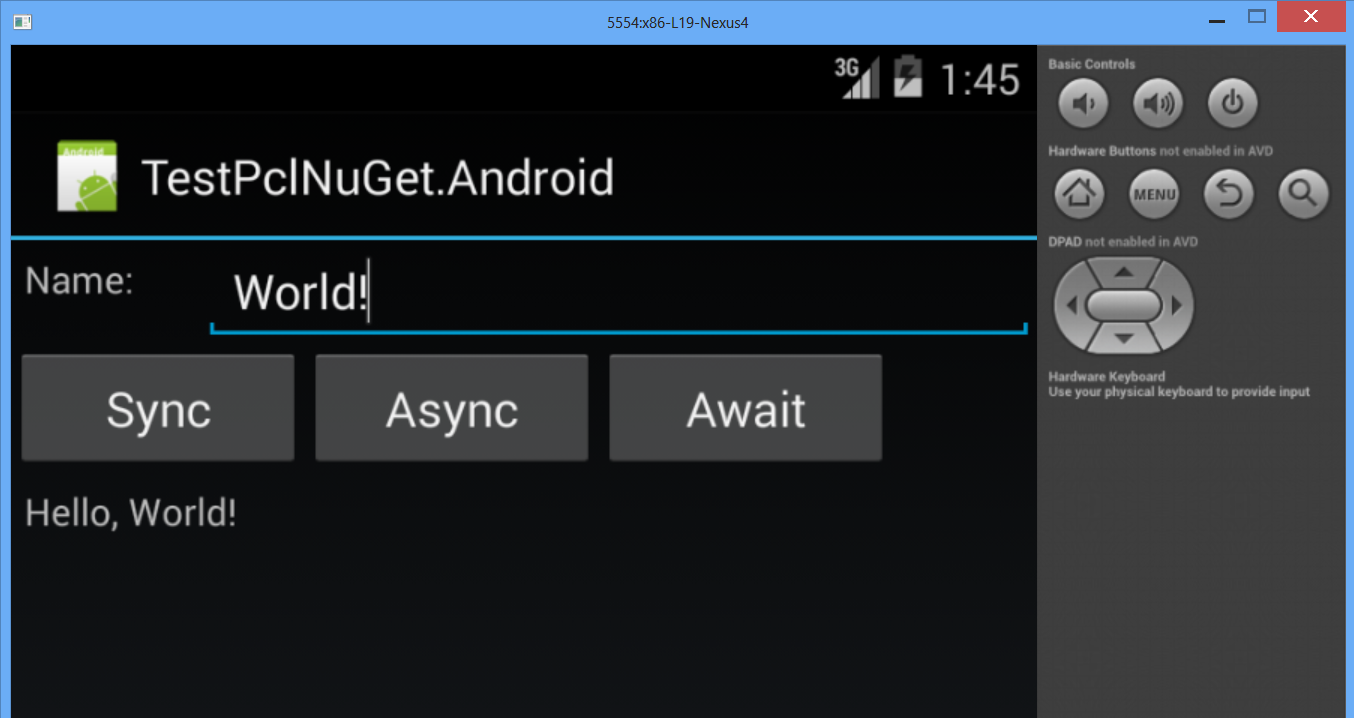
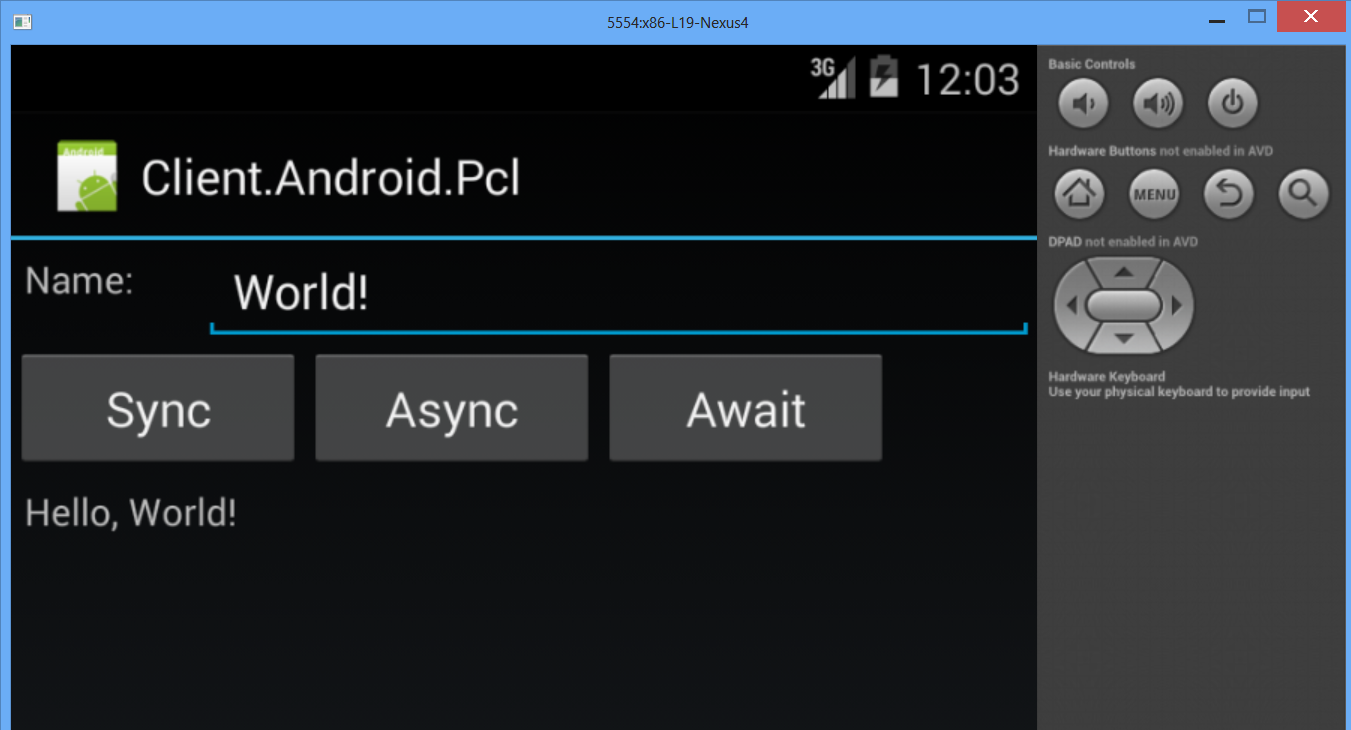
Update the android screenshot and code to match the new project name

diff --git a/src/Client.Android.Pcl/Properties/AssemblyInfo.cs b/src/Client.Android.Pcl/Properties/AssemblyInfo.cs
@@ -6,11 +6,11 @@ using Android.App;
 // General Information about an assembly is controlled through the following 
 // set of attributes. Change these attribute values to modify the information
 // associated with an assembly.
-[assembly: AssemblyTitle("TestPclNuGet.Android")]
+[assembly: AssemblyTitle("Client.Android.Pcl")]
 [assembly: AssemblyDescription("")]
 [assembly: AssemblyConfiguration("")]
 [assembly: AssemblyCompany("")]
-[assembly: AssemblyProduct("TestPclNuGet.Android")]
+[assembly: AssemblyProduct("Client.Android.Pcl")]
 [assembly: AssemblyCopyright("Copyright ©  2014")]
 [assembly: AssemblyTrademark("")]
 [assembly: AssemblyCulture("")]

diff --git a/src/Client.Android.Pcl/Activity1.cs b/src/Client.Android.Pcl/Activity1.cs
@@ -7,7 +7,7 @@ using ServiceStack;
 
 namespace Client.Android.Pcl
 {
-    [Activity(Label = "TestPclNuGet.Android", MainLauncher = true, Icon = "@drawable/icon")]
+    [Activity(Label = "Client.Android.Pcl", MainLauncher = true, Icon = "@drawable/icon")]
     public class Activity1 : Activity
     {
         protected override void OnCreate(Bundle bundle)
